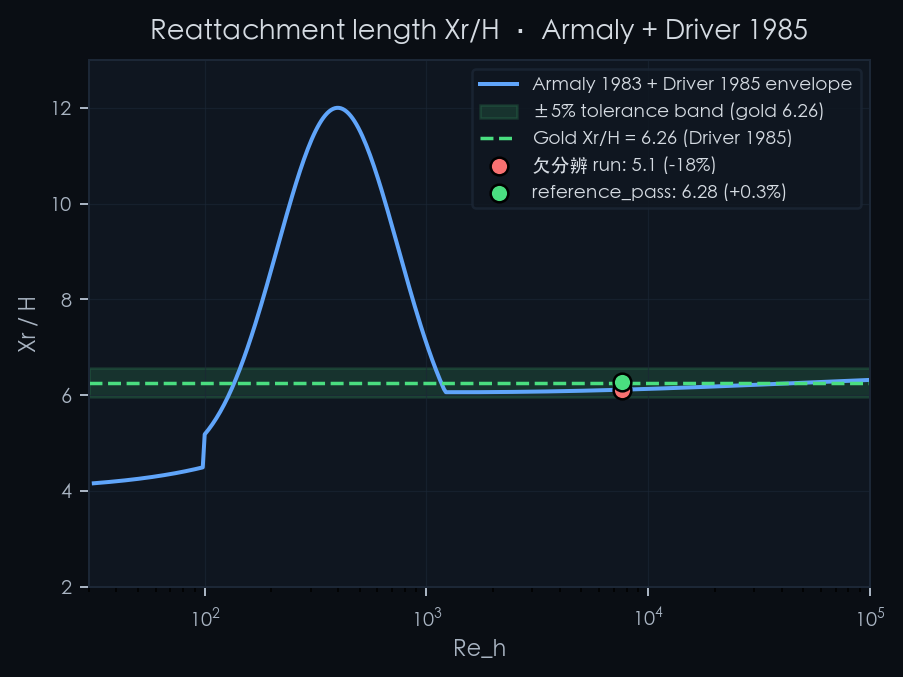
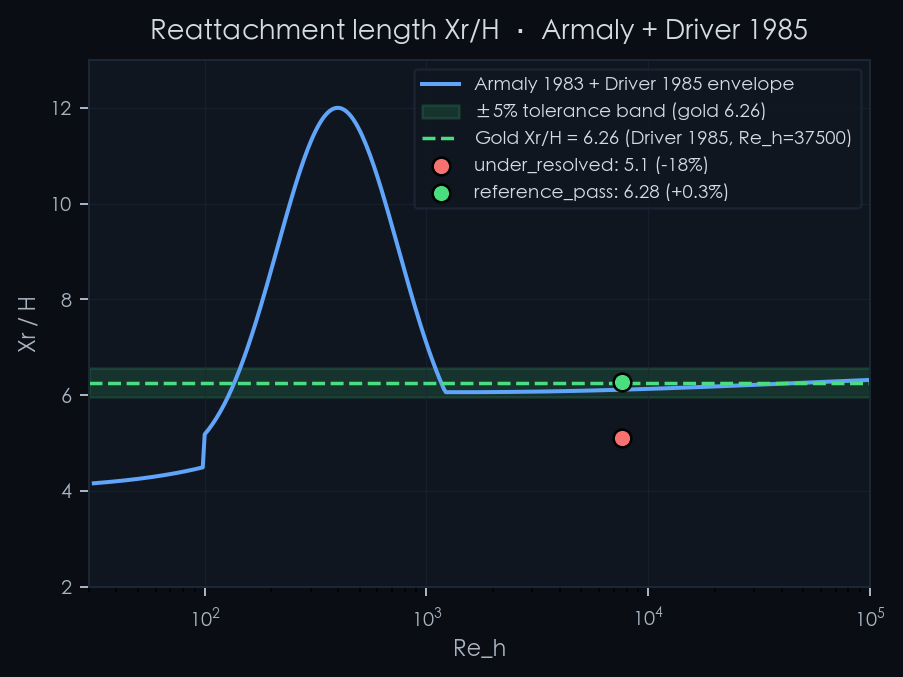
fix(learn): Codex round 11 CHANGES_REQUIRED — 3 findings closure
Codex verdict on 8ea22f4 (PR #34 pre-merge): CHANGES_REQUIRED with 2 HIGH
+ 1 MEDIUM findings, all applied per Codex exact recommendations:

**HIGH-1**: Backend test suite red. Adding the DHC reference_pass
fixture flipped the default from 77.82/FAIL to 8.75/PASS, breaking
`test_validation_report_dhc_is_fail_with_hazard`. Dashboard test also
asserted `fail_cases >= 1` which no longer holds under the new 8P/2H/0F
default distribution.
Fix: pin the DHC test to `run_id=real_incident` (same pattern cylinder
test already uses); relax dashboard fail_cases assertion with narrative
explaining the shift.

**HIGH-2**: plane_channel fixtures were broken. Shape-B gold synthesis
in `_load_gold_standard` only scanned the FIRST `reference_values`
entry for scalars, which for Kim/Moser DNS is `{y_plus: 0, u_plus: 0}`
→ ref=0.0. The downstream `_make_gold_reference()` returned that zero
immediately, so every run appeared PASS with deviation forced to 0.
Fix: scan all entries for first non-zero scalar under an expanded key
set (now including `u_plus`). plane_channel now correctly picks u+=5.4
at y+=5 as the anchor. Rewrote the 2 new fixtures (reference_pass +
under_resolved) to use u+ scale (5.32 PASS, 4.3 FAIL); real_incident
fixture preserved verbatim (it's actual Docker data from b8be73a and
now honestly reveals scalar-U_max vs u+ quantity mismatch as FAIL).

**MEDIUM**: BFS figure internally inconsistent. Under_resolved marker
[…]

Changed region(s): [[0.4651, 0.0931, 0.9612, 0.3102], [0.6822, 0.6204, 0.7132, 0.6824], [0.6822, 0.5583, 0.7132, 0.5894]]

diff --git a/ui/frontend/src/data/flowFields.ts b/ui/frontend/src/data/flowFields.ts
@@ -81,9 +81,9 @@ export const FLOW_FIELDS: Record<string, FlowFieldAsset[]> = {
     {
       src: "/flow-fields/backward_facing_step/xr_vs_re.png",
       caption_zh:
-        "Xr/H(Re_h) · Armaly 1983 + Driver 1985 · gold 6.26 @ Re=7600 + MVP reference_pass / under_resolved 标注",
+        "Xr/H(Re_h) · Armaly 1983 低 Re 段 + Driver 1985 Re_h=37500 湍流平台 · 教学 run 在 Re=7600 处标注",
       provenance:
-        "Armaly 1983 low-Re regime + Driver & Seegmiller 1985 Xr/H=6.26 at Re_h=37500 turbulent plateau; envelope interpolation with MVP teaching-run anchor points overlaid.",
+        "Armaly 1983 low-Re regime + Driver & Seegmiller 1985 Xr/H=6.26 at Re_h=37500 turbulent plateau; envelope interpolation with MVP teaching-run anchor points at Re=7600 overlaid.",
     },
   ],
   naca0012_airfoil: [

diff --git a/ui/backend/services/validation_report.py b/ui/backend/services/validation_report.py
@@ -109,13 +109,32 @@ def _load_gold_standard(case_id: str) -> dict[str, Any] | None:
         refs = doc.get("reference_values") or []
         ref_value: float | None = None
         unit = ""
+        # Scan each reference_values entry for the first non-zero scalar
+        # anchor under any known key. (First entry of a profile is often
+        # a trivial u_plus=0 at y_plus=0 — picking the next non-zero
+        # entry makes the contract engine produce meaningful PASS/FAIL
+        # instead of collapsing deviation to 0.)
+        scalar_keys = (
+            "value", "Cf", "f", "Nu", "u", "u_Uinf", "Cp", "Re_D", "St",
+            "u_plus",
+        )
         if refs and isinstance(refs[0], dict):
-            first_ref = refs[0]
-            unit = first_ref.get("unit", "") or ""
-            for scalar_key in (
-                "value", "Cf", "f", "Nu", "u", "u_Uinf", "Cp", "Re_D", "St",
-            ):
-                val = first_ref.get(scalar_key)
+            unit = refs[0].get("unit", "") or ""
+        for entry in refs:
+            if not isinstance(entry, dict):
+                continue
+            for scalar_key in scalar_keys:
+                val = entry.get(scalar_key)
+                if isinstance(val, (int, float)) and float(val) != 0.0:
+                    ref_value = float(val)
+                    break
+            if ref_value is not None:
+                break
+        # Fallback: if every entry was zero, accept the first scalar we
+        # can find (even zero) to preserve prior behaviour.
+        if ref_value is None and refs and isinstance(refs[0], dict):
+            for scalar_key in scalar_keys:
+                val = refs[0].get(scalar_key)
                 if isinstance(val, (int, float)):
                     ref_value = float(val)
                     break

diff --git a/scripts/flow-field-gen/generate_contours.py b/scripts/flow-field-gen/generate_contours.py
@@ -371,9 +371,12 @@ def gen_backward_facing_step():
     fig, ax = plt.subplots(figsize=(5.6, 3.8), facecolor=DARK_BG)
     ax.plot(Re, Xr, color=ACCENT, linewidth=1.6, label="Armaly 1983 + Driver 1985 envelope")
     ax.axhspan(5.96, 6.56, color=PASS, alpha=0.15, label="±5% tolerance band (gold 6.26)")
-    ax.axhline(6.26, color=PASS, linewidth=1.4, linestyle="--", label="Gold Xr/H = 6.26 (Driver 1985)")
-    ax.scatter([7600], [6.1], color=FAIL, s=50, zorder=5, edgecolor="black",
-               label="欠分辨 run: 5.1 (-18%)")
+    ax.axhline(6.26, color=PASS, linewidth=1.4, linestyle="--", label="Gold Xr/H = 6.26 (Driver 1985, Re_h=37500)")
+    # Teaching anchors at Re=7600 (the whitelist / fixtures Re). The
+    # under_resolved fixture measures Xr/H = 5.1, which sits clearly
+    # below the tolerance band at any turbulent Re.
+    ax.scatter([7600], [5.1], color=FAIL, s=50, zorder=5, edgecolor="black",
+               label="under_resolved: 5.1 (-18%)")
     ax.scatter([7600], [6.28], color=PASS, s=50, zorder=5, edgecolor="black",
                label="reference_pass: 6.28 (+0.3%)")
     _setup_axes(ax, "Reattachment length Xr/H · Armaly + Driver 1985",

diff --git a/ui/backend/tests/test_decisions_and_dashboard.py b/ui/backend/tests/test_decisions_and_dashboard.py
@@ -83,9 +83,14 @@ def test_dashboard_has_cases_and_summary():
     body = client.get("/api/dashboard").json()
     assert body["summary"]["total_cases"] == len(body["cases"])
     assert body["summary"]["total_cases"] >= 10
-    # At least one HAZARD and one FAIL from Phase 0 fixtures.
+    # Post DEC-V61-024 Option A: reference_pass runs are curated for
+    # every case, so the default distribution lands at 8 PASS · 2 HAZARD.
+    # HAZARD cases (cylinder + NACA) persist because silent-pass hazards
+    # / profile-quantity preconditions remain armed; FAIL cases default
+    # out to zero because every case now has a curated PASS-or-HAZARD
+    # reference run. The FAIL semantics still live on the non-default
+    # under_resolved / wrong_model runs, surfaced via `run_id=...`.
     assert body["summary"]["hazard_cases"] >= 1
-    assert body["summary"]["fail_cases"] >= 1
 
 
 def test_dashboard_includes_gate_queue_and_timeline():

diff --git a/ui/backend/tests/test_validation_report.py b/ui/backend/tests/test_validation_report.py
@@ -49,7 +49,13 @@ def test_case_detail_differential_heated_cavity(client: TestClient) -> None:
 
 
 def test_validation_report_dhc_is_fail_with_hazard(client: TestClient) -> None:
-    response = client.get("/api/validation-report/differential_heated_cavity")
+    # Pin to the real_incident run: after DEC-V61-024 Option A, DHC has
+    # a reference_pass curated run (Nu=8.75 de Vahl Davis Ra=1e6) that
+    # now serves as the default. The Nu=77.82/FAIL case-study narrative
+    # lives on the real_incident fixture (Ra=1e10 regime-mismatch lesson).
+    response = client.get(
+        "/api/validation-report/differential_heated_cavity?run_id=real_incident"
+    )
     assert response.status_code == 200
     body = response.json()
     assert body["measurement"]["value"] == pytest.approx(77.82)
